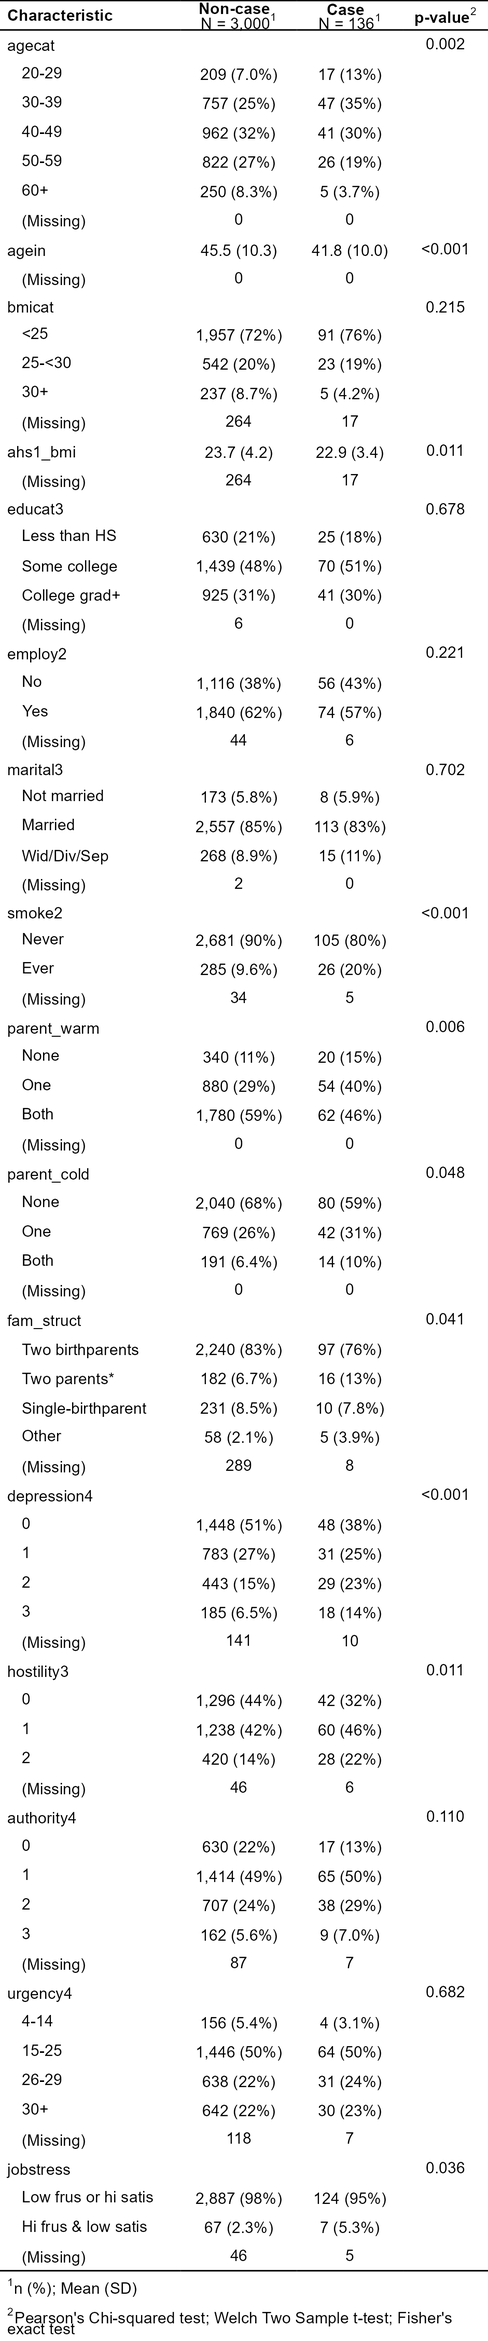
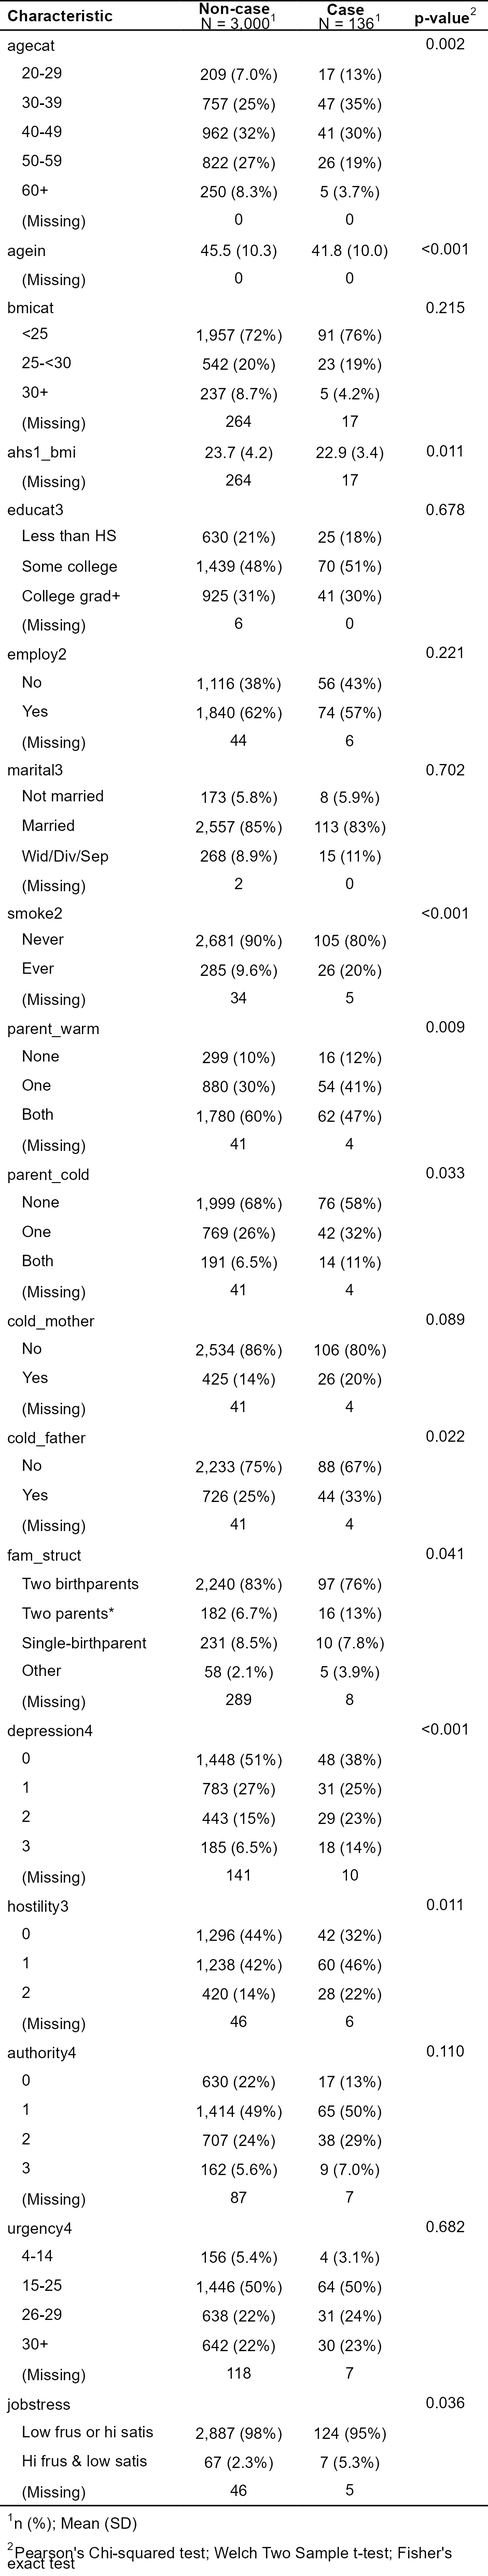
Add cold mother/father in models

diff --git a/summary.md b/summary.md
@@ -43,8 +43,8 @@ AHS Overlap Population Fibromyalgia Study
   - See also: Table 1 of the manuscript
 - Early life experiences (See [the questions in
   AHS-1](./images/AHS1_Q37.png))
-  - Warm parenting: `mwarm`, `fwarm`
-  - Cold parenting: `mcold`, `fcold`
+  - Warm parenting: `mwarm` and `fwarm` combined
+  - Cold parenting: `mcold` and `fcold` combined
   - ~~Parent situation~~: Removed or replaced with “family structure”
   - \[**Need to check**\] Family structure
     - Replace “Raised by” variable
@@ -143,10 +143,12 @@ AHS Overlap Population Fibromyalgia Study
 
 | predictor   | term                | odds_ratio | conf_low | conf_high | p.value | trend.p |
 |:------------|:--------------------|-----------:|---------:|----------:|--------:|:--------|
-| parent_warm | One                 |       1.76 |     1.21 |      2.56 |  0.0030 | 0.0051  |
-| parent_warm | None                |       1.69 |     1.01 |      2.83 |  0.0471 |         |
-| parent_cold | One                 |       1.39 |     0.95 |      2.04 |  0.0897 | 0.0144  |
-| parent_cold | Both                |       1.87 |     1.04 |      3.36 |  0.0367 |         |
+| parent_warm | One                 |       1.76 |     1.21 |      2.56 |  0.0030 | 0.0117  |
+| parent_warm | None                |       1.54 |     0.87 |      2.70 |  0.1350 |         |
+| parent_cold | One                 |       1.44 |     0.98 |      2.11 |  0.0658 | 0.0097  |
+| parent_cold | Both                |       1.93 |     1.07 |      3.47 |  0.0289 |         |
+| cold_mother | Yes                 |       1.46 |     0.94 |      2.27 |  0.0912 | 0.0912  |
+| cold_father | Yes                 |       1.54 |     1.06 |      2.23 |  0.0231 | 0.0231  |
 | fam_struct  | Two parents\*       |       2.03 |     1.17 |      3.52 |  0.0116 | 0.1382  |
 | fam_struct  | Single-birthparent  |       1.00 |     0.51 |      1.94 |  0.9993 |         |
 | fam_struct  | Other               |       1.99 |     0.78 |      5.08 |  0.1493 |         |
@@ -181,10 +183,12 @@ AHS Overlap Population Fibromyalgia Study
 
 | predictor   | term                | odds_ratio | conf_low | conf_high | p.value | trend.p |
 |:------------|:--------------------|-----------:|---------:|----------:|--------:|:--------|
-| parent_warm | One                 |       1.89 |     1.26 |      2.83 |  0.0020 | 0.0145  |
-| parent_warm | None                |       1.53 |     0.83 |      2.81 |  0.1696 |         |
-| parent_cold | One                 |       1.55 |     1.03 |      2.34 |  0.0364 | 0.0065  |
-| parent_cold | Both                |       2.05 |     1.08 |      3.90 |  0.0285 |         |
+| parent_warm | One                 |       1.89 |     1.26 |      2.83 |  0.0020 | 0.0102  |
+| parent_warm | None                |       1.60 |     0.87 |      2.94 |  0.1297 |         |
+| parent_cold | One                 |       1.54 |     1.02 |      2.32 |  0.0394 | 0.0071  |
+| parent_cold | Both                |       2.04 |     1.07 |      3.87 |  0.0300 |         |
+| cold_mother | Yes                 |       1.61 |     1.01 |      2.57 |  0.0466 | 0.0466  |
+| cold_father | Yes                 |       1.54 |     1.04 |      2.30 |  0.0325 | 0.0325  |
 | fam_struct  | Two parents\*       |       2.07 |     1.14 |      3.76 |  0.0173 | 0.1706  |
 | fam_struct  | Single-birthparent  |       1.24 |     0.63 |      2.44 |  0.5355 |         |
 | fam_struct  | Other               |       1.40 |     0.42 |      4.60 |  0.5828 |         |
